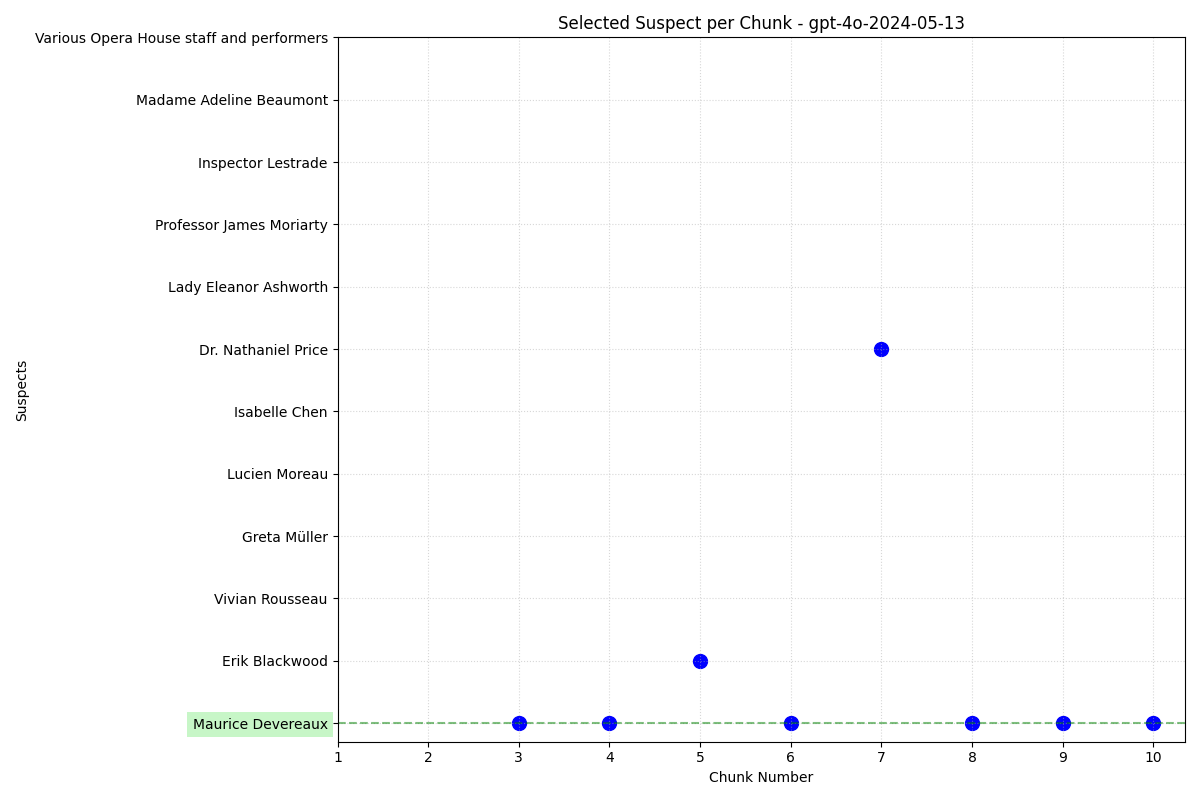
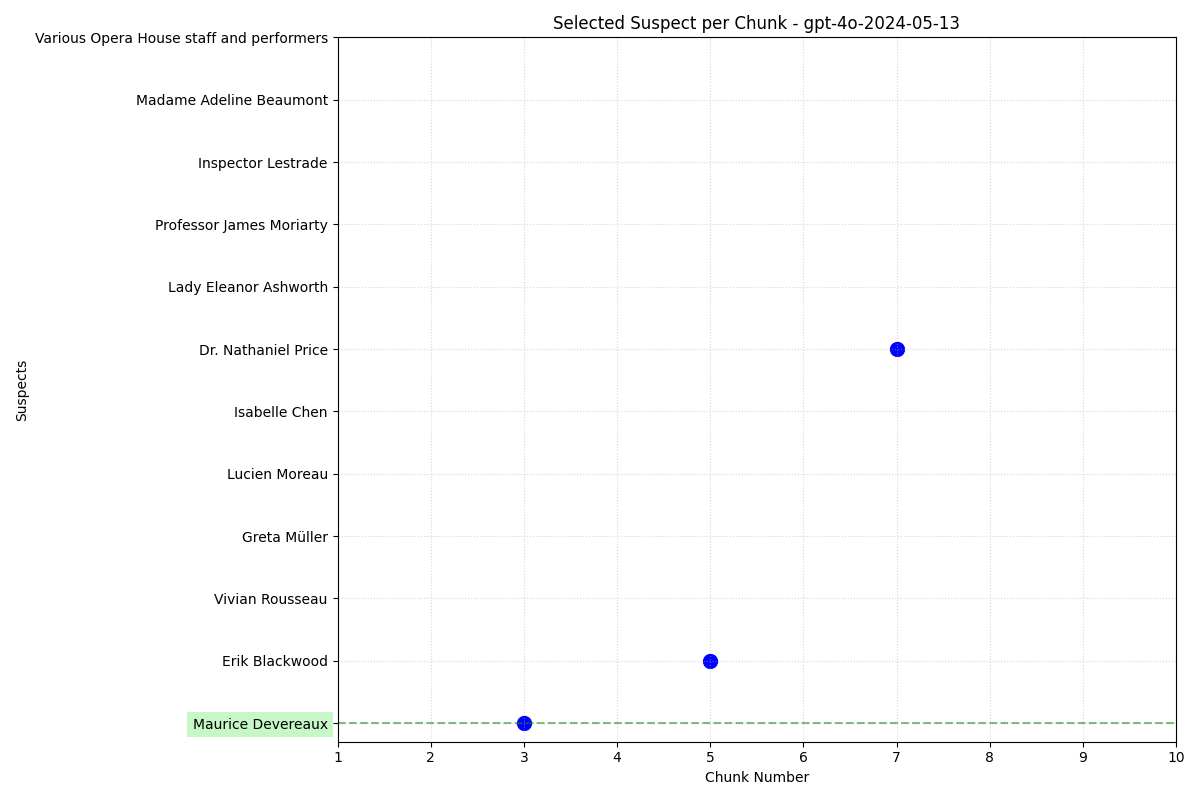
make confusion matrix and cleaned up code

diff --git a/src/fig.py b/src/fig.py
@@ -1,5 +1,4 @@
 import os
-import re
 import string
 import numpy as np
 import pandas as pd
@@ -9,24 +8,7 @@ import matplotlib.pyplot as plt
 import matplotlib.animation as animation
 
 from src.config import VIS_DIR, EVAL_DIR, LETTERS, POSSIBLE_RESPONSES
-
-
-def combine_prob_entries(probs):
-    combined_probs = {}
-    for key, value in probs.items():
-        if key.startswith('(') and len(key) > 1:
-            clean_key = key[1:]  # Remove the leading parenthesis
-            if clean_key in combined_probs:
-                combined_probs[clean_key] += value
-            else:
-                combined_probs[clean_key] = value
-        else:
-            if key in combined_probs:
-                combined_probs[key] += value
-            else:
-                combined_probs[key] = value
-
-    return combined_probs
+from src.data import combine_prob_entries, token_to_suspect
 
 
 def highlight_culprit(ax, suspects, culprit):
@@ -125,22 +107,9 @@ def plot_selected_suspects(completions, data, model_name, force_rerun=False):
 
     suspects = data['suspects']
     culprit = data['culprit']
-
-    # Extract the selected suspect from the content of each completion
     selected_suspects = []
     for completion in completions:
-        content = completion.get('content', [])
-        if content:
-            text = content[0].get('text', '')
-            selected_suspect = re.sub(r'[^A-Z]', '', text)
-            selected_suspects.append(selected_suspect)
-        else:
-            selected_suspects.append('')
-
-    letters = list(string.ascii_lowercase[:len(suspects)].upper())
-    sus = {letters[i]: suspect for i, suspect in enumerate(suspects)}
-    selected_suspects = [sus.get(suspect) for suspect in selected_suspects]
-
+        selected_suspects.append(token_to_suspect(completion, suspects))
     # Create the plot
     fig, ax = plt.subplots(figsize=(12, 8))
 
@@ -185,42 +154,25 @@ def make_confusion():
     model_names = set()
 
     for difficulty in os.listdir(EVAL_DIR):
-        print(f"Processing difficulty: {difficulty}")
         difficulty_path = os.path.join(EVAL_DIR, difficulty)
         if os.path.isdir(difficulty_path):
             for filename in os.listdir(difficulty_path):
-                print(f"-Processing file: {filename}")
                 if filename.endswith('.pickle'):
                     filepath = os.path.join(difficulty_path, filename)
                     with open(filepath, 'rb') as f:
                         data = pickle.load(f)
-                    
                     story_name = filename.replace('.pickle', '')
                     culprit = data['data']['culprit']
                     suspects = data['data']['suspects']
-                    culprit_index = suspects.index(culprit)
                     for model, completions in data['completions'].items():
-                        print(f"--Processing model: {model}")
                         model_names.add(model)
-                        # Assuming the last completion is the final answer
-                        final_answer = completions[-1]['content'][0]['text']
-                        print(f"---Final answer: {final_answer}")
-                        
-                        if final_answer in POSSIBLE_RESPONSES or final_answer in LETTERS:
-                            if final_answer in POSSIBLE_RESPONSES:
-                                final_answer = re.sub(r'[^A-Z]', '', final_answer)
-                            final_answer_index = LETTERS.index(final_answer)
-                            print(f"---Final answer index: {final_answer_index}")
-                            correct = int(final_answer_index == culprit_index)
-                        else:
-                            print(f"---Final answer not in possible responses: {final_answer}")
-                            correct = 0
+                        selected_suspect = token_to_suspect(completions[-1], suspects)
+                        correct = int(selected_suspect == culprit)
                         results[story_name][model] = correct
                         difficulty_results[difficulty][model].append(correct)
 
     # Create detailed DataFrame
     df_detailed = pd.DataFrame(results).T.fillna(0)
-
     # Create difficulty-based DataFrame
     df_difficulty = {}
     for diff, model_results in difficulty_results.items():

diff --git a/src/data.py b/src/data.py
@@ -1,6 +1,35 @@
 import os
+import re
 
+from src.config import POSSIBLE_RESPONSES, LETTERS
 
 def list_mysteries() -> None:
     for m in os.listdir('data/mysteries'):
         print(m)
+
+
+def combine_prob_entries(probs):
+    combined_probs = {}
+    for key, value in probs.items():
+        if key.startswith('(') and len(key) > 1:
+            clean_key = key[1:]  # Remove the leading parenthesis
+            if clean_key in combined_probs:
+                combined_probs[clean_key] += value
+            else:
+                combined_probs[clean_key] = value
+        else:
+            if key in combined_probs:
+                combined_probs[key] += value
+            else:
+                combined_probs[key] = value
+
+    return combined_probs
+
+def token_to_suspect(c, suspects):
+    num_suspects = len(suspects)
+    suspects_dict = {LETTERS[i]: s for i, s in enumerate(suspects)}
+    answer = c["content"][0]["text"]
+    if answer in POSSIBLE_RESPONSES[:3*num_suspects] or answer in LETTERS[:num_suspects]:
+        if answer in POSSIBLE_RESPONSES:
+            answer = re.sub(r'[^A-Z]', '', answer)        
+    return suspects_dict.get(answer, "")
